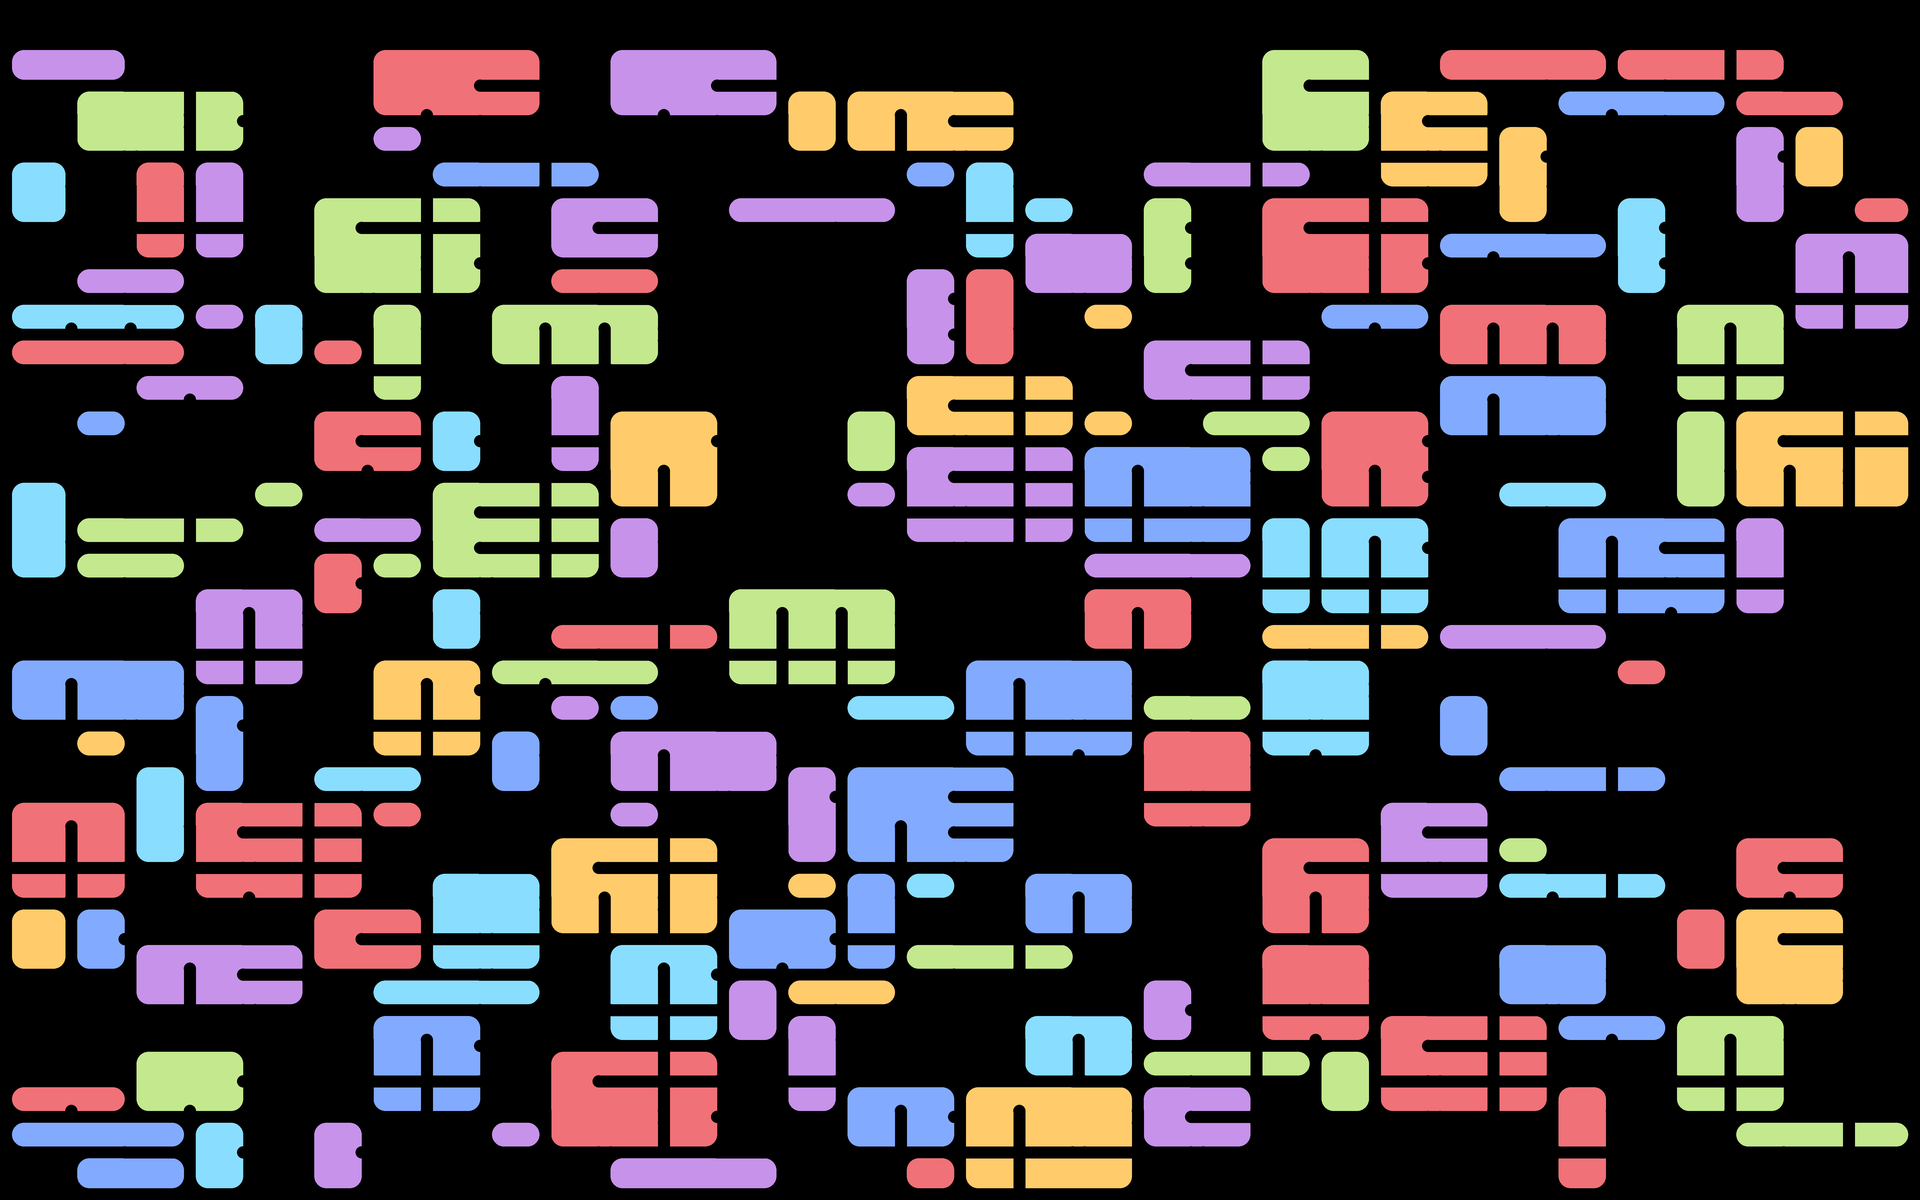
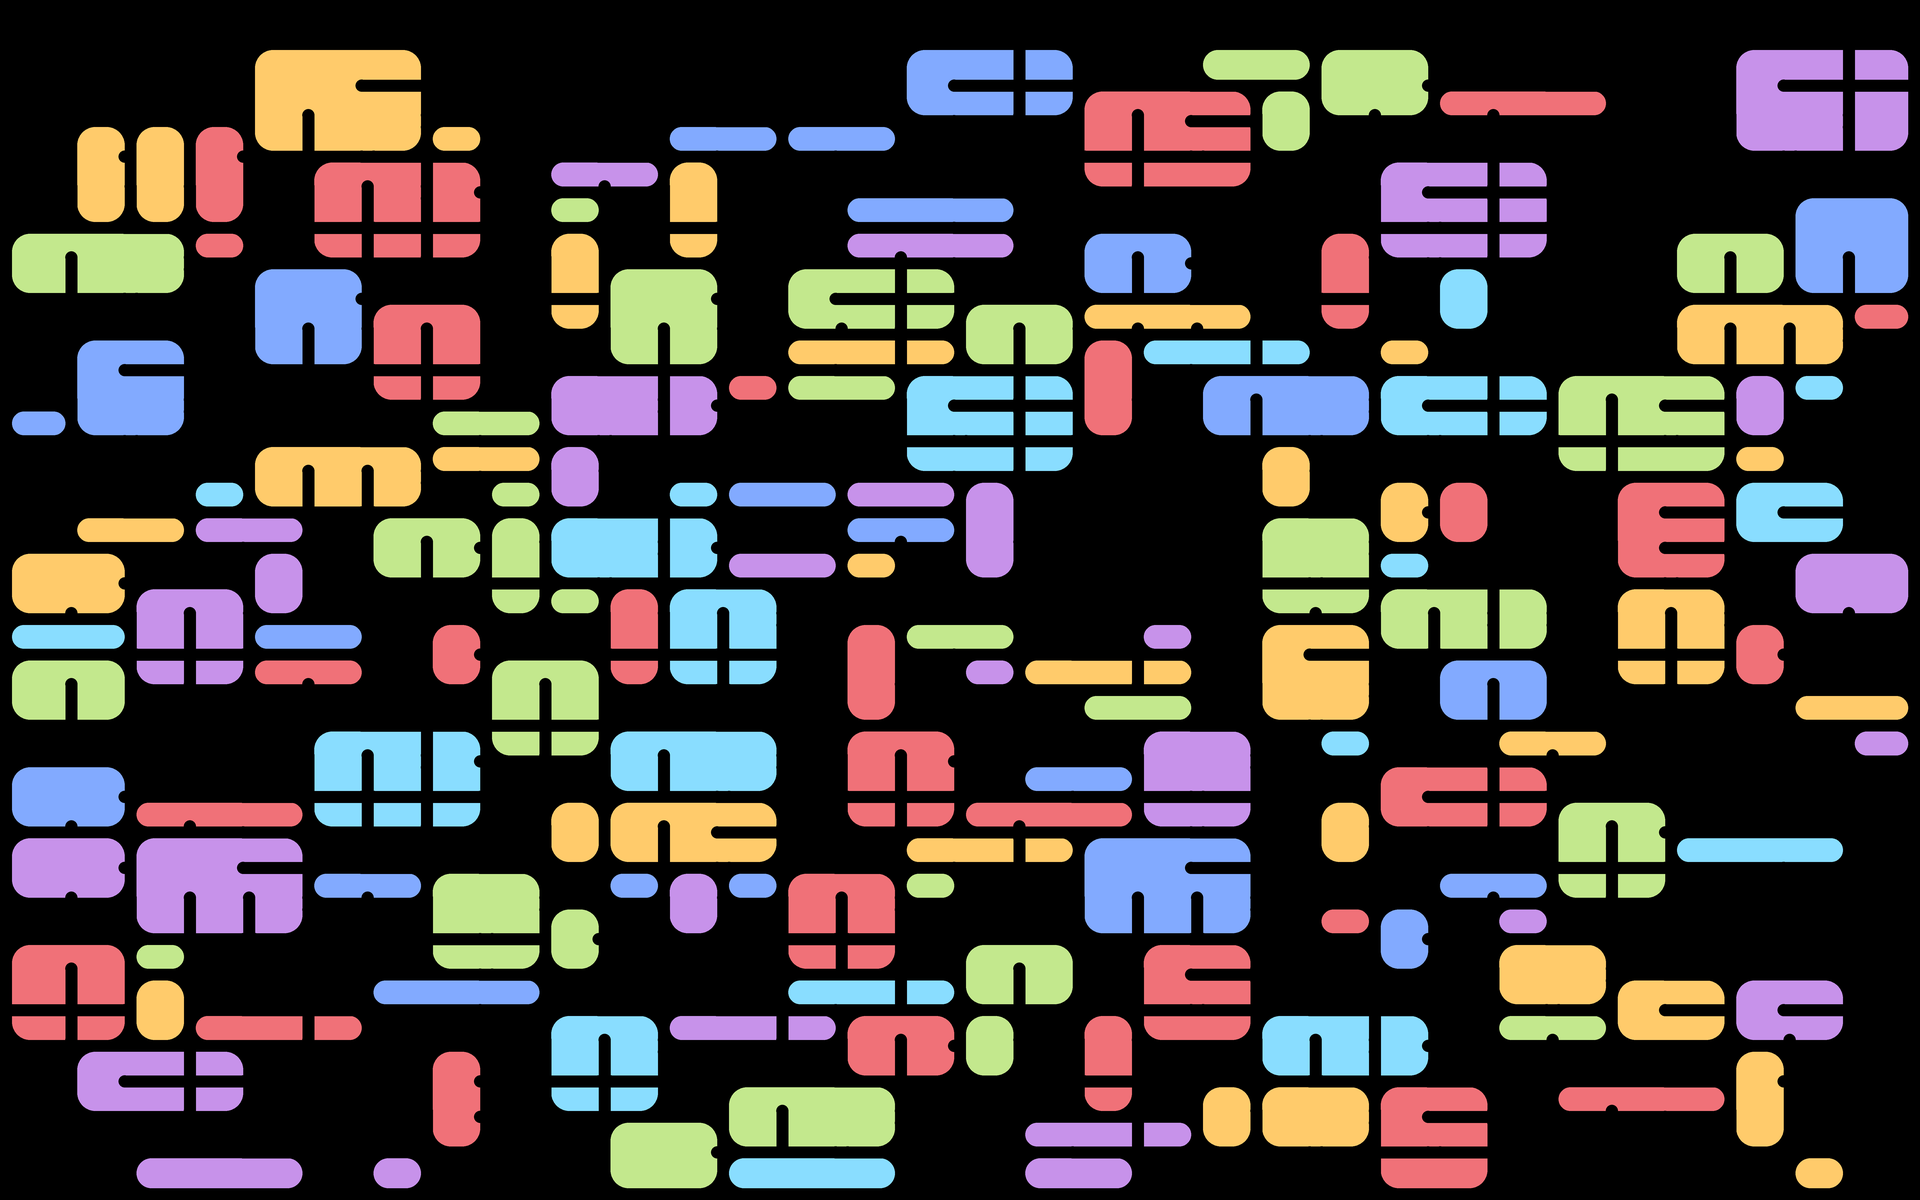
Increase corner radius and adjust scaling logic
Updates the corner radius for rounded rectangles to improve visual aesthetics. Refines scaling logic by introducing dynamic scaling for line thickness, padding, and corner radius, ensuring better adaptability to different resolutions. Removes redundant reassignment of `corner_radius`. Updates related binary wallpaper files.

diff --git a/wallpapers/doodle_wallpaper.py b/wallpapers/doodle_wallpaper.py
@@ -27,7 +27,7 @@ MIN_DEPTH = 2  # Minimum recursion depth (smaller shapes)
 MAX_DEPTH = 6  # Maximum recursion depth (larger shapes)
 RANDOM_SEED = None  # Set to None for truly random, or a number for reproducible results
 FILL_PROBABILITY = 0.4  # Probability (0-1) that a cell will be filled
-CORNER_RADIUS = 12  # Corner radius for rounded rectangles
+CORNER_RADIUS = 18  # Corner radius for rounded rectangles
 MAX_MERGE_SIZE = 3  # Maximum size of merged cells (1 = no merging, 2 = 2x2, 3 = 3x3, etc.)
 RENDER_SCALE = 4  # Render at higher resolution and downsample for smoother edges
 DRAW_GRID_LINES = True  # Set to True to draw grid lines for alignment verification
@@ -145,7 +145,7 @@ def draw_recursive_shapes(draw, x, y, w, h, level, min_level, padding, filled_ce
     
     # Draw grid lines if enabled (for debugging)
     if DRAW_GRID_LINES:
-        line_width = int(LINE_THICKNESS * RENDER_SCALE)
+        line_width = int(line_thickness * RENDER_SCALE)
         radius = line_width // 2
         
         # Calculate line extension based on parameter
@@ -206,7 +206,9 @@ for m in MONITORS:
     container_h = container_h_logical * RENDER_SCALE
 
     # Calculate padding for shapes and line thickness (at high resolution)
-    padding = int(SHAPE_PADDING * RENDER_SCALE)
+    padding = int(SHAPE_PADDING * scale * RENDER_SCALE)
+    line_thickness = int(LINE_THICKNESS * scale)
+    corner_radius = max(1, int(CORNER_RADIUS * scale * RENDER_SCALE))
 
     # 3. Create Image at higher resolution
     img = Image.new(
@@ -221,7 +223,6 @@ for m in MONITORS:
         f"  - Container Area: {container_w}x{container_h} (Offset: {container_x}, {container_y})"
     )
     filled_cells = set()
-    corner_radius = max(1, int(CORNER_RADIUS * scale * RENDER_SCALE))
     draw_recursive_shapes(
         draw,
         container_x,
